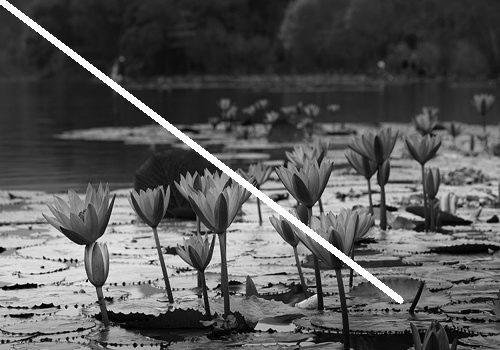
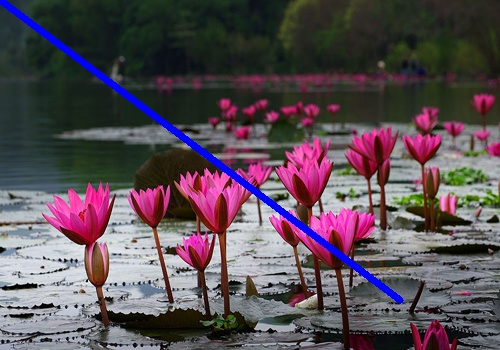
basic 1

diff --git a/tachvatthe.py b/tachvatthe.py
@@ -1,0 +1,32 @@
+import cv2;
+import numpy as np;
+
+rgb = np.uint8([[[77, 177, 35]]])
+
+hsv = cv2.cvtColor(rgb, cv2.COLOR_BGR2HSV)
+
+print(hsv) # [[[ 69 205 177]]]
+
+imgSrc = cv2.imread('Image/multicolor.jpg', 1);
+cv2.imshow('Anh goc', imgSrc)
+
+hsvImg = cv2.cvtColor(imgSrc, cv2.COLOR_BGR2HSV)
+cv2.imshow('Anh HSV', hsvImg)
+
+# Dat nguong
+min_color =  np.array([ 67, 205, 177])
+max_color = np.array([71, 205, 177])
+
+# mat na loc
+mask = cv2.inRange(hsvImg, min_color, max_color)
+# print(mask)
+cv2.imshow('Mat na', mask)
+
+imgRes = cv2.bitwise_and(imgSrc, imgSrc, mask = mask)
+cv2.imshow('Ket qua', imgRes)
+
+# print(mask.shape)
+# print(imgSrc.shape)
+
+cv2.waitKey()
+cv2.destroyAllWindows()

diff --git a/doikenh.py b/doikenh.py
@@ -1,0 +1,28 @@
+import cv2;
+# import numpy as np
+
+src = cv2.imread('Image/hoasung.jpg', 1)
+
+# Thong tin anh: chieu cao, chieu rong va so luong kenh mau
+print('Thong tin anh: ', src.shape)
+
+print('Chieu cao: ', src.shape[0])
+
+# Kich thuoc anh (dung luong)
+print('Size: ', src.size, 'byte ')
+
+#boi den diem chon
+cv2.rectangle(src, (100, 50), (400, 250), (0,255,0), 1)
+cv2.imshow('Anh goc', src)
+#Cat anh
+subImg = src[50:250, 100:400] #  y, x
+cv2.imshow('Sub image', subImg)
+
+#Doi kenh mau
+subImg = subImg[:, :, 2] # Doi toan bo sang kenh R
+cv2.imshow('Sub image', subImg)
+
+
+cv2.waitKey()
+cv2.destroyAllWindows()
+

diff --git a/ghep2anh.py b/ghep2anh.py
@@ -1,0 +1,18 @@
+import cv2
+
+img1 = cv2.imread('Image/hoasung.jpg', 1)
+img2 = cv2.imread('Image/hoamai.jpg', 1)
+
+# 2 anh co cung kich thuoc, cung kenh
+img1 = img1[100:300, 100:350]
+img2 = img2[100:300, 100:350]
+
+imgRes = cv2.add(img1, img2)
+
+cv2.imshow('Anh 1', img1)
+cv2.imshow('Anh 2', img2)
+cv2.imshow('Ket qua', imgRes)
+
+
+cv2.waitKey()
+cv2.destroyAllWindows()

diff --git a/readImage.py b/readImage.py
@@ -1,6 +1,6 @@
 import cv2
 
-img = cv2.imread("Image/hoasung.jpg")
-cv2.imshow("Hoa sung", img)
+img = cv2.imread('Image/hoasung.jpg', 1)
+cv2.imshow('Hoa sung', img)
 cv2.waitKey()
 cv2.destroyAllWindows()

diff --git a/save_img.py b/save_img.py
@@ -1,7 +1,7 @@
 import cv2
 
 
-src = cv2.imread("Image/hoasung.jpg", 0)
+src = cv2.imread("Image/hoasung.jpg", 1)
 cv2.line(src, (0, 0), (400, 300), (255, 0, 0), 5)
 
 cv2.imshow("Anh luu moi", src)
